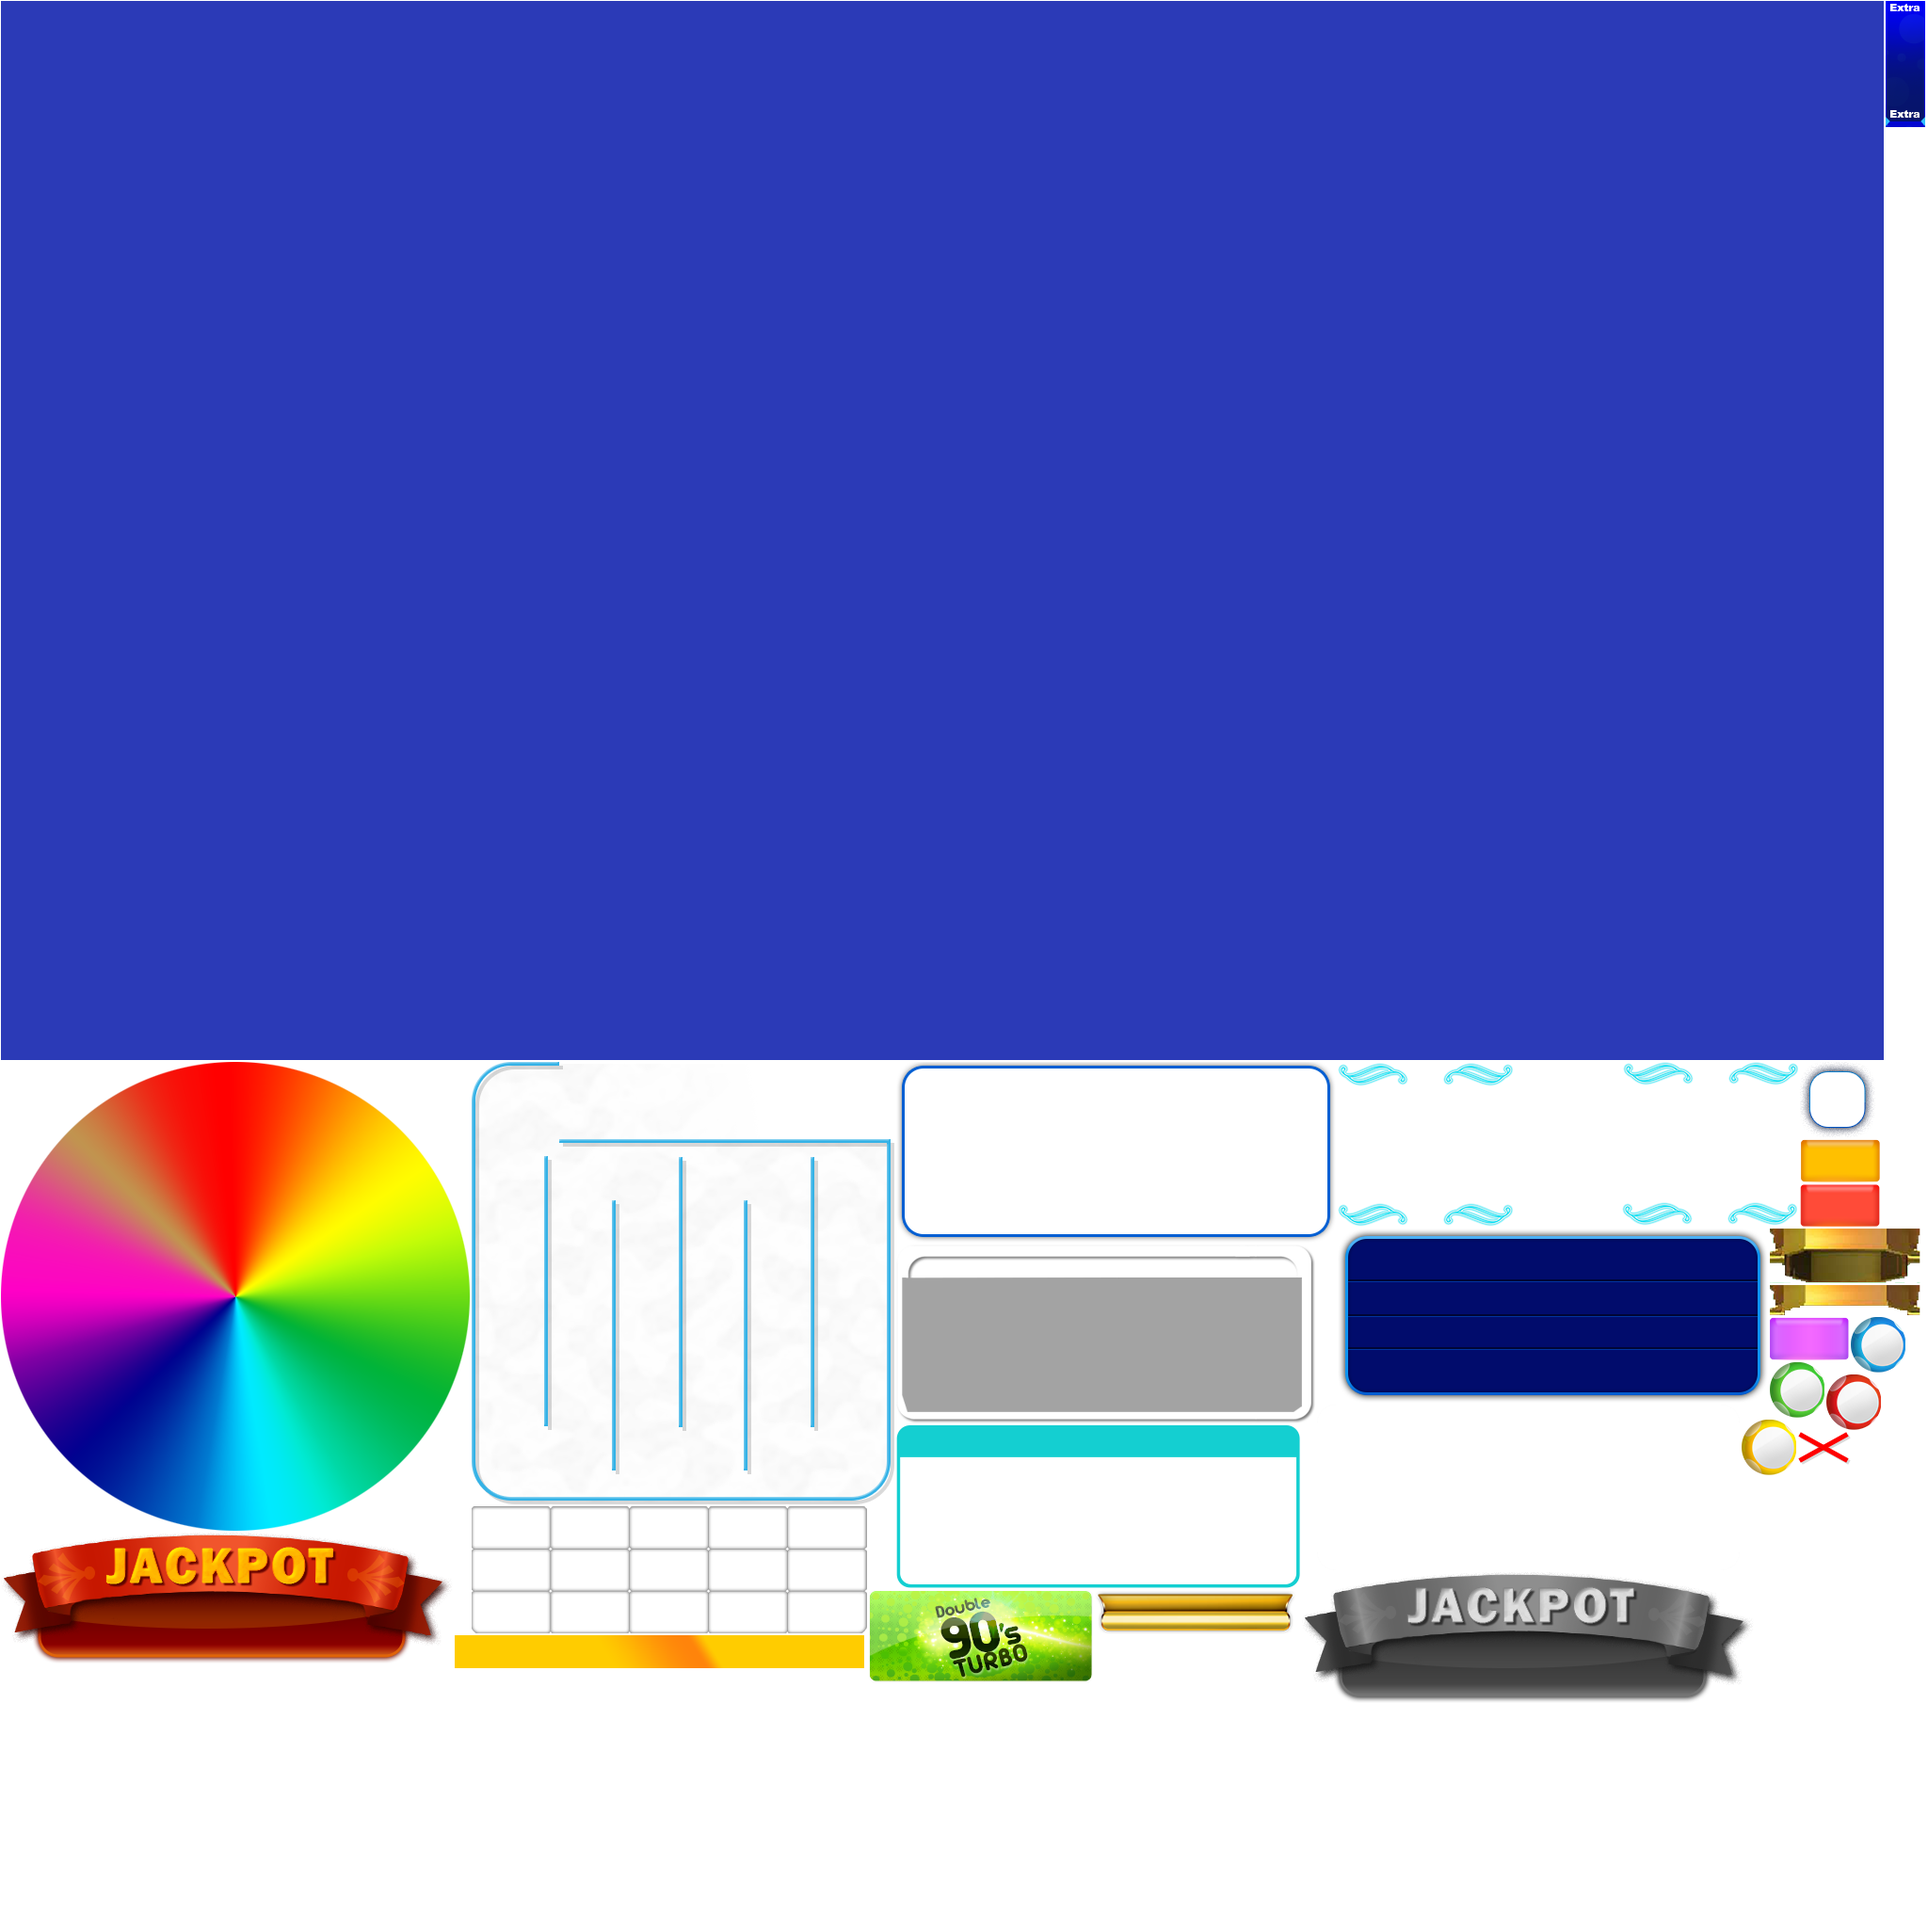
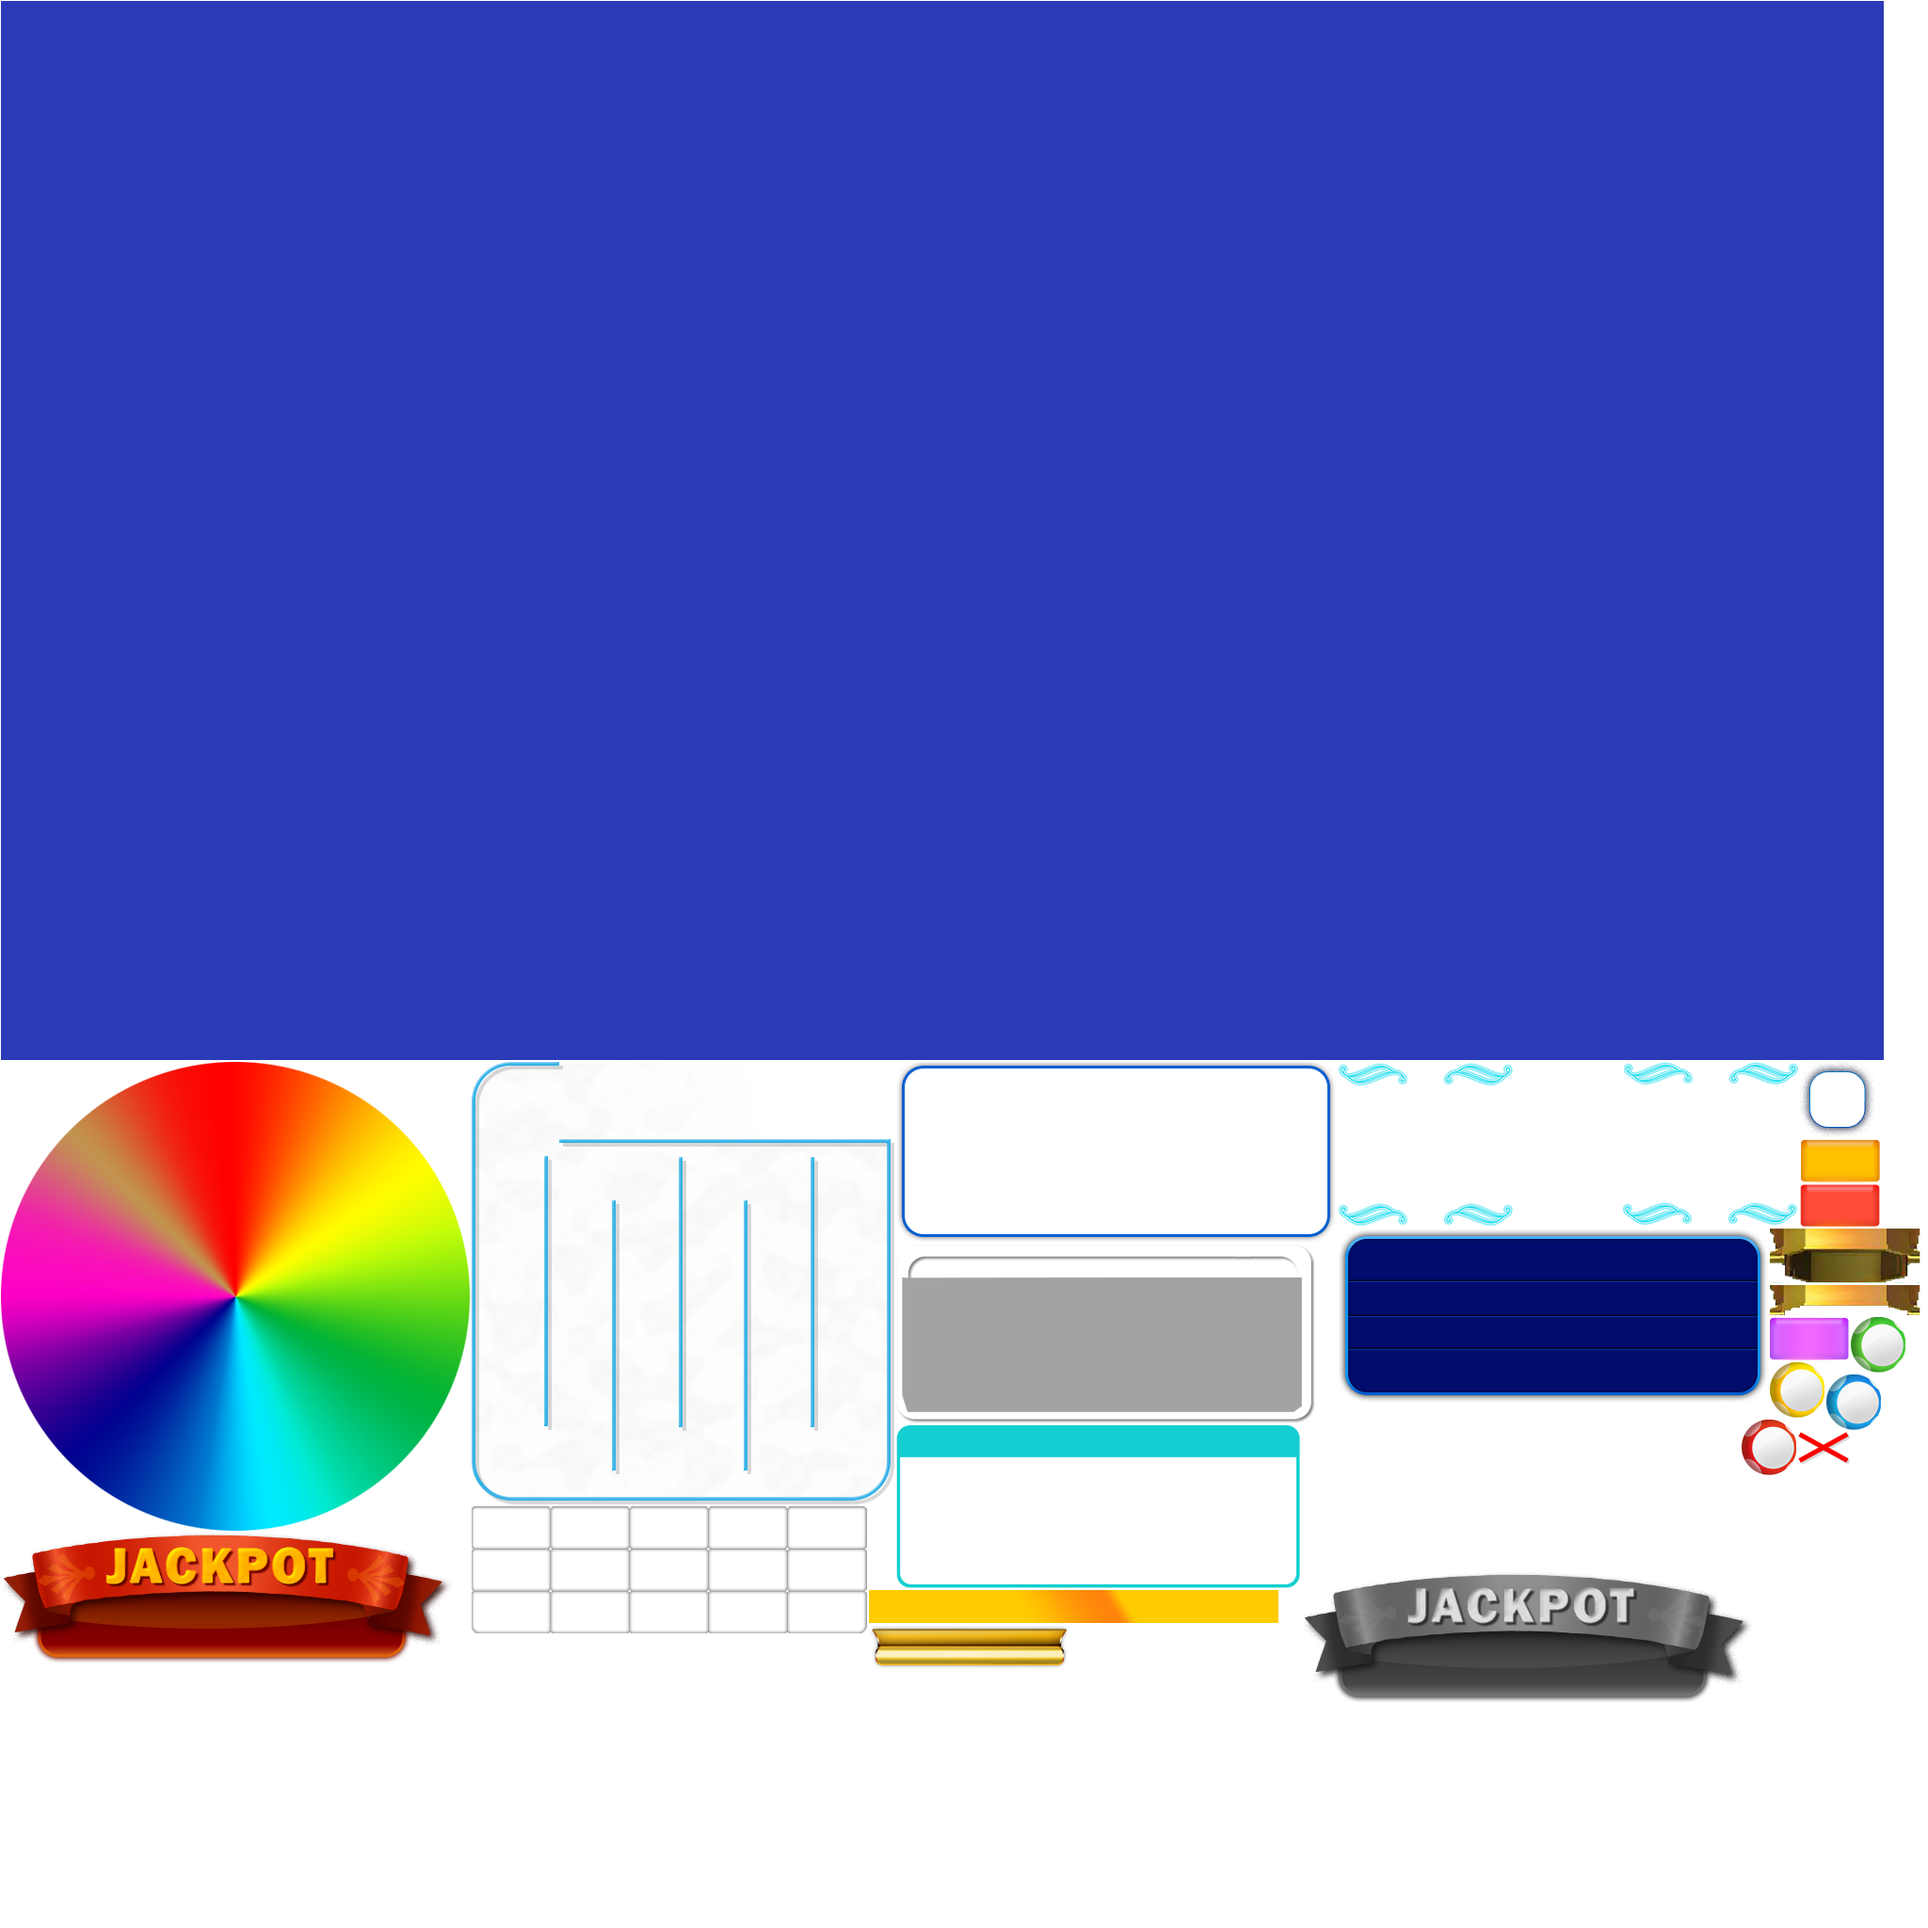
config

Changed region(s): [[0.2188, 0.8125, 0.6875, 0.875], [0.9062, 0.6875, 1.0, 0.7812], [0.9688, 0.0, 1.0, 0.0625]]

diff --git a/newMoblie/src/bingoGames/v2games/doubleTurbo90/DoubleTurbo90.ts b/newMoblie/src/bingoGames/v2games/doubleTurbo90/DoubleTurbo90.ts
@@ -10,16 +10,8 @@ class DoubleTurbo90 extends V2Game{
 
 	public constructor( assetsPath: string ) {
 		super( "doubleTurbo90.conf", assetsPath, 57 );
-        this.ptFilterConfig = "doubleTurbo90_filt";
 
         PaytableUI.textBold = true;
-
-        GameCard.bgRound = 20;
-
-        GameCard.cardTexPosition = new egret.Point( 10, 1 );
-        GameCard.betTexPosition = new egret.Point( 100, 1 );
-        GameCard.texSize = 15;
-        GameCard.texColor = 0xFFFFFF;
 
 		GameCard.gridOnTop = true;
 
@@ -36,7 +28,6 @@ class DoubleTurbo90 extends V2Game{
         languageText["line"] = { en: "LINE", es: "LÍNEA", pt: "LINHA" };
         languageText["four corners"] = { en: "4 CORNERS", es: "4 ESQUINAS", pt: "4 ESQUINAS" };
 
-        GameToolBar.toolBarY = 560;
         this.ballArea.needLightCheck = true;
 
         this.needListenToolbarStatus = true;
